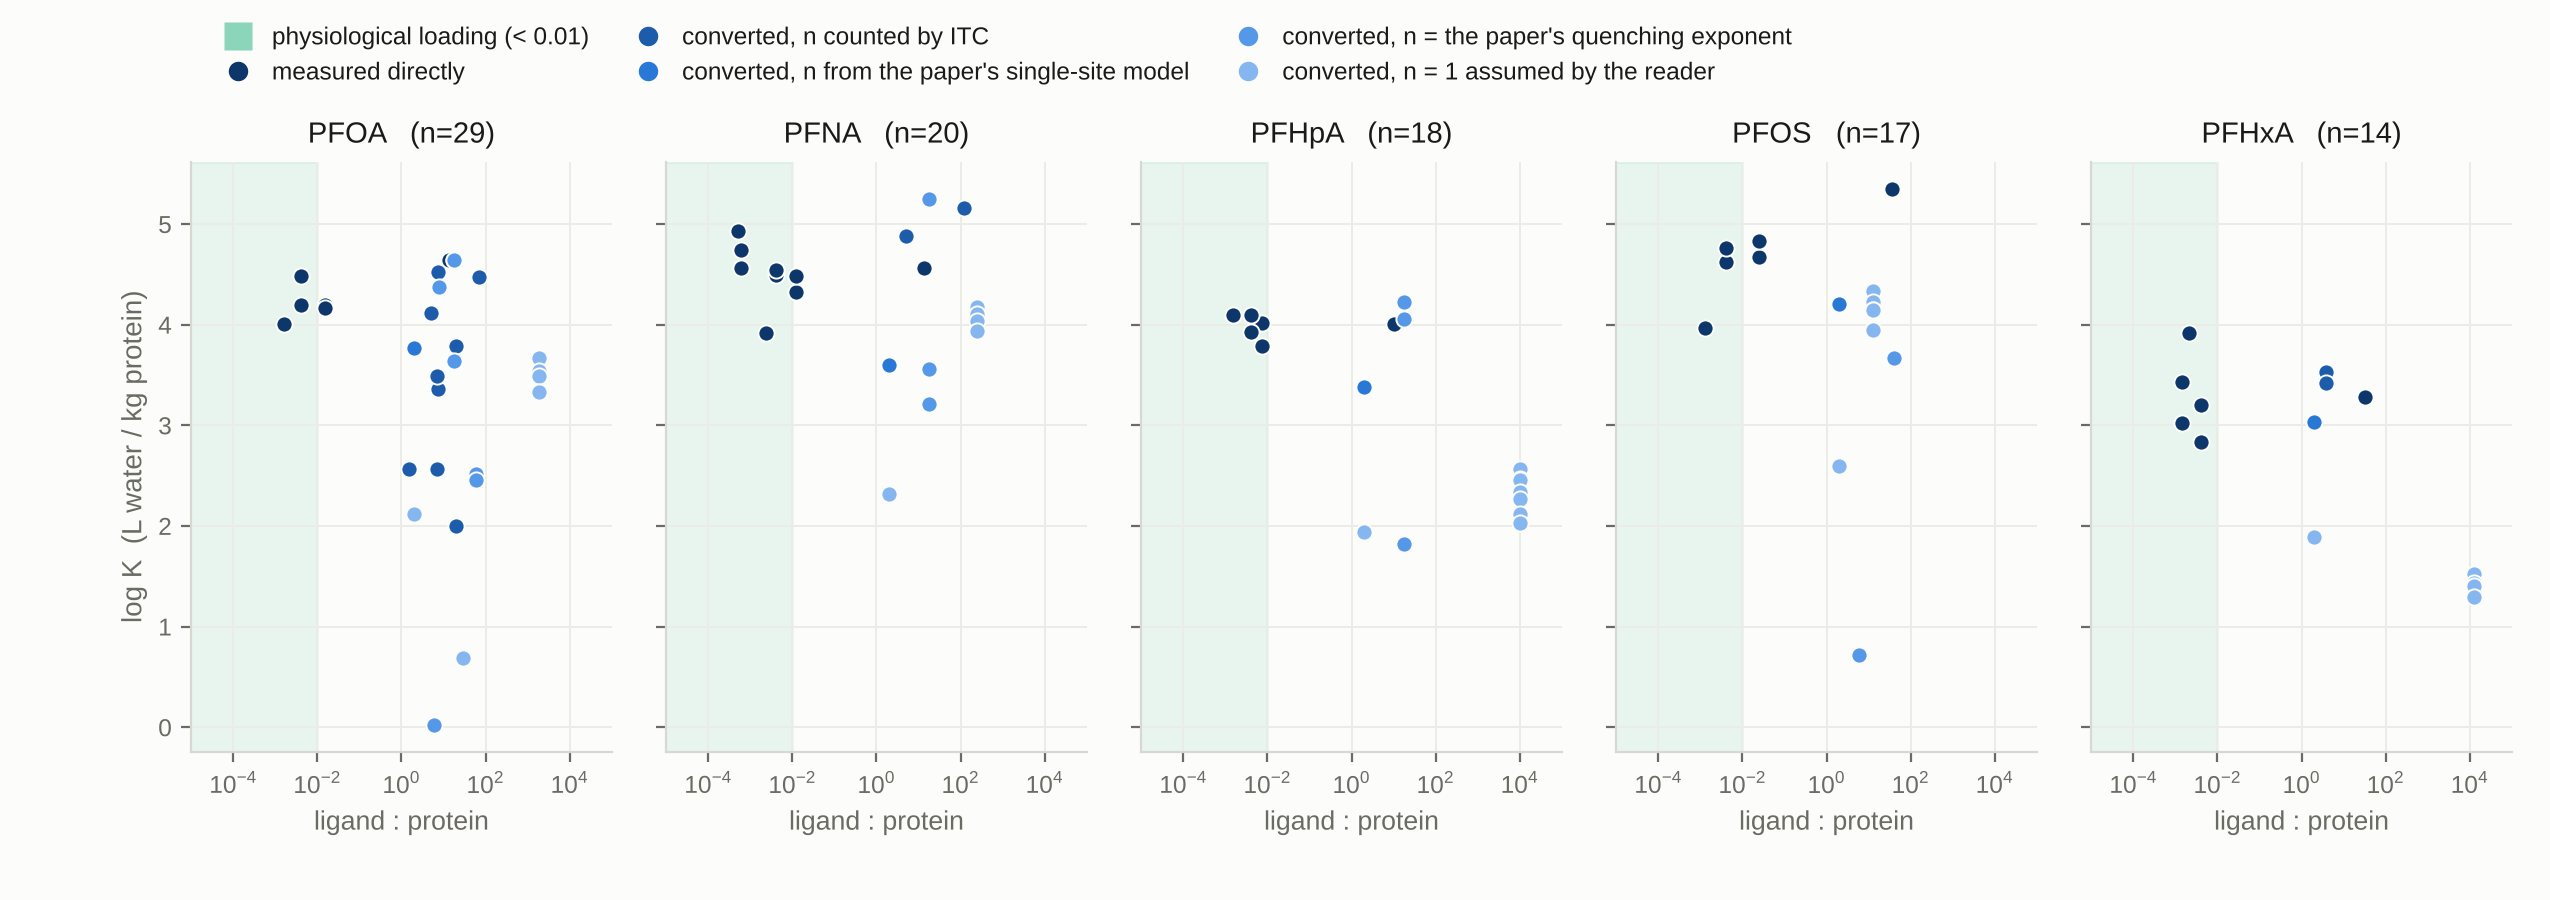
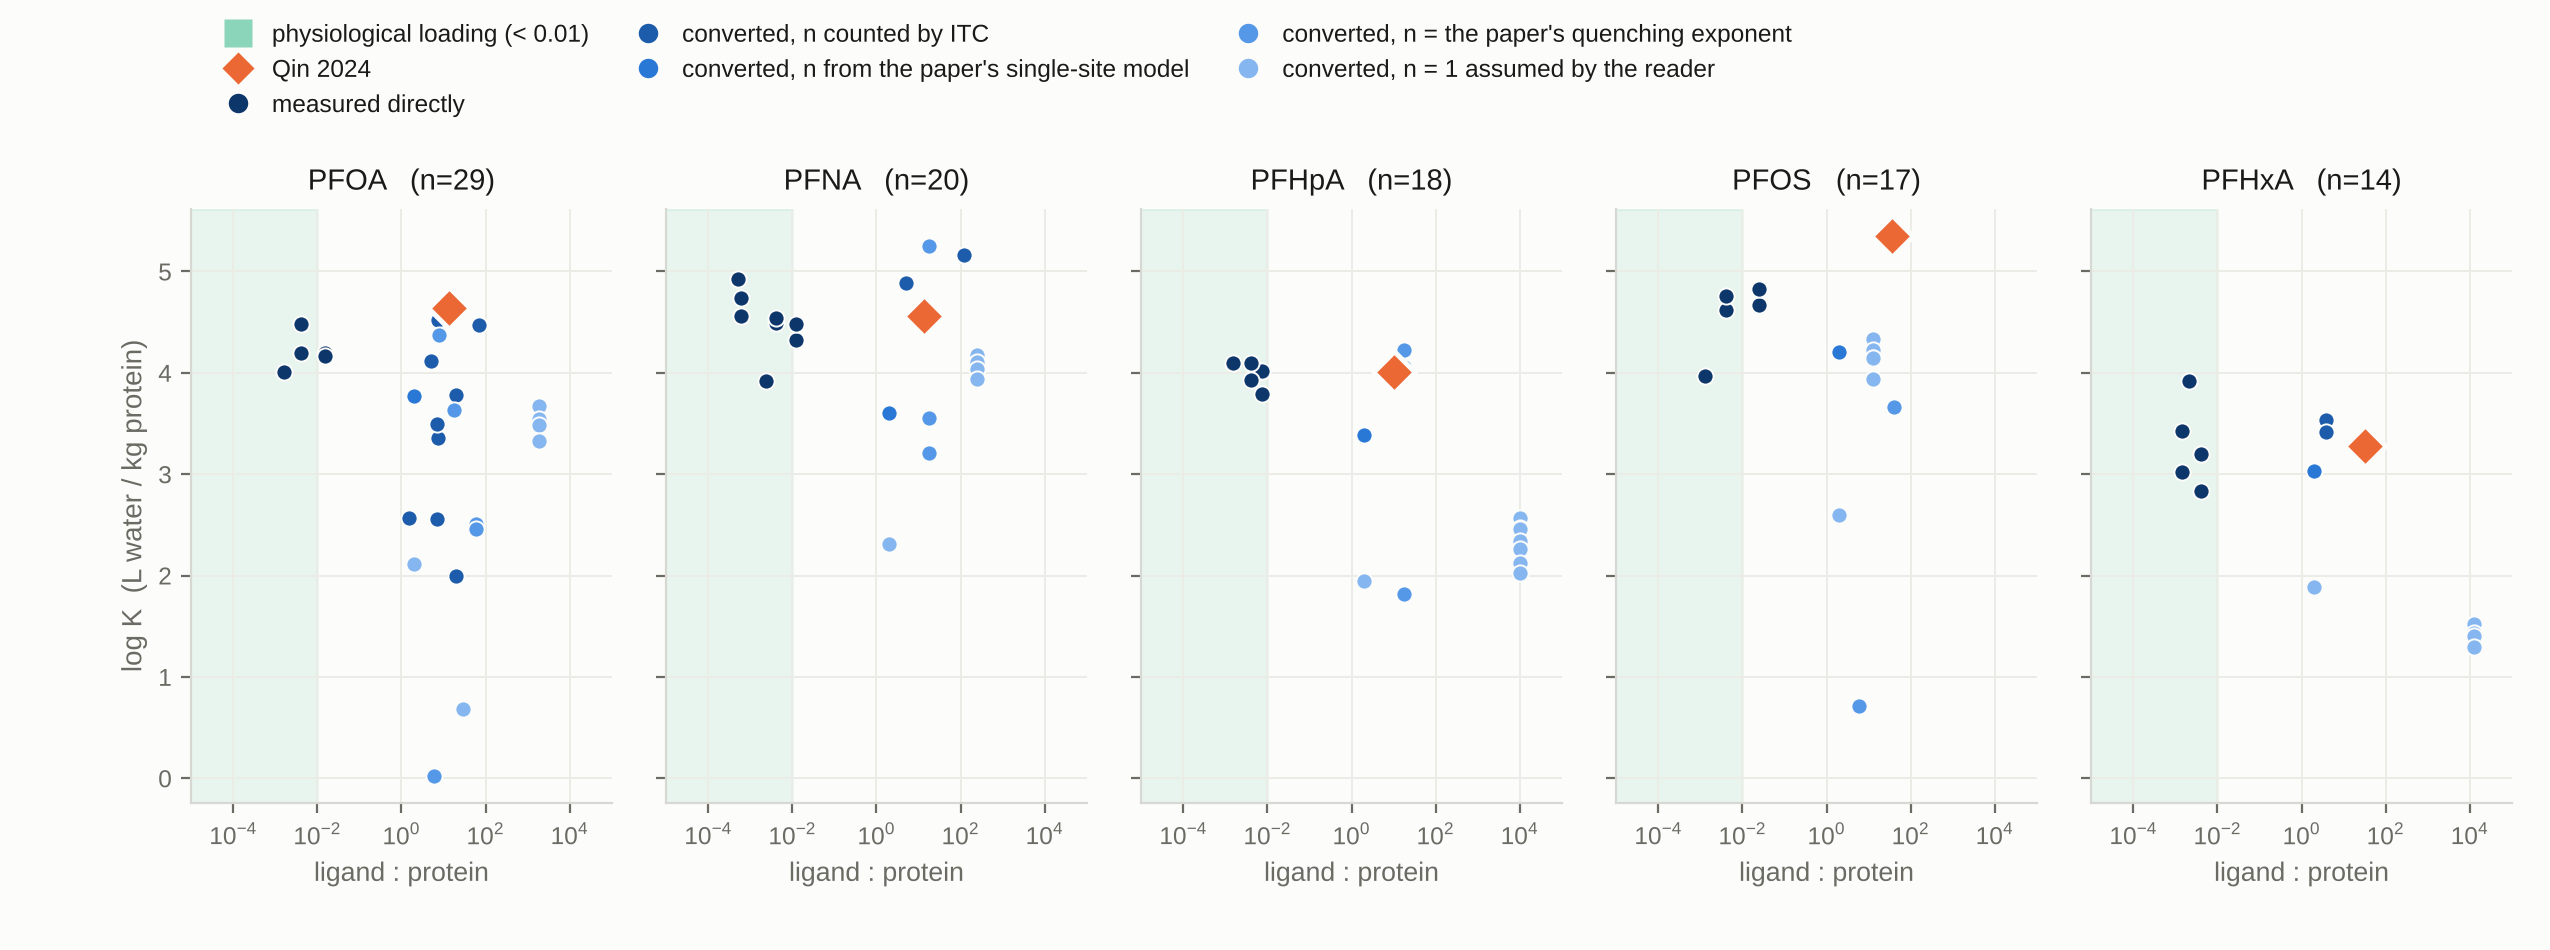
Highlight Qin 2024 in the loading figure
Qin takes the same orange diamond it carries in figure A, drawn on
top of the field, so the two figures are read with one key rather
than two.  It keeps its identity rather than its route shade: in
both figures the question is where Qin sits relative to everything
else, and figure A's legend already names its route.

The legend is three rows once Qin has its own entry, so the figure
grows 4.50 to 4.75 inches and the top margin moves 0.82 to 0.78 to
keep it off the panel titles.

What the highlight shows is worth the change.  Qin's five values sit
at ligand:protein 10 to 37 -- well outside the physiological band --
yet rank 1st, 3rd, 5th, 6th and 6th of their fields, and 1st of 17
for PFOS.  That cuts against the simple reading of this chart, and
the reason is that Qin separates specific from non-specific binding
and reports the SPECIFIC constant, so high loading does not degrade
it the way it degrades a lumped constant measured in the same
regime.  Loading tells you which binding a number describes, not
simply that a high-loading number must be small.

Claude-Session: https://claude.ai/code/session_01KWGaE5eHaWPnoHpTeKGRB5

diff --git a/tk_review/scripts/make_route_and_loading_figures.py b/tk_review/scripts/make_route_and_loading_figures.py
@@ -190,9 +190,11 @@ def fig_b(rows, compounds):
     from matplotlib.lines import Line2D
 
     n = len(compounds)
-    fig, axes = plt.subplots(1, n, figsize=(2.55 * n, 4.5), sharey=True)
+    fig, axes = plt.subplots(1, n, figsize=(2.55 * n, 4.75), sharey=True)
     fig.patch.set_facecolor(SURFACE)
-    fig.subplots_adjust(top=0.82, bottom=0.165, left=0.075, right=0.985,
+    # The legend is three rows once Qin has its own key; leave it room
+    # so it does not sit on the panel titles.
+    fig.subplots_adjust(top=0.78, bottom=0.155, left=0.075, right=0.985,
                         wspace=0.13)
 
     for ax, cm in zip(axes, compounds):
@@ -200,10 +202,23 @@ def fig_b(rows, compounds):
         g = [r for r in rows if r["pfas"] == cm and r["ratio"]
              and r["ratio"] > 0]
         ax.axvspan(1e-6, PHYSIO, color="#1baf7a", alpha=0.085, zorder=0)
+        # Qin 2024 carries the same orange diamond it has in figure A, so
+        # the two figures are read with one key. It is drawn on top and
+        # keeps its identity rather than its route shade -- in both
+        # figures the question is where Qin sits relative to the field,
+        # and its route is named in the caption of figure A anyway.
         for r in g:
+            if r["source"].startswith("Qin 2024"):
+                continue
             ax.scatter([r["ratio"]], [r["log_k"]], s=34,
                        color=RAMP[r["route_rank"]], edgecolor=SURFACE,
                        linewidth=0.7, zorder=3)
+        for r in g:
+            if not r["source"].startswith("Qin 2024"):
+                continue
+            ax.scatter([r["ratio"]], [r["log_k"]], s=112, marker="D",
+                       color=ORANGE, edgecolor=SURFACE, linewidth=1.8,
+                       zorder=6)
         ax.set_xscale("log")
         ax.set_title(f"{cm}   (n={len(g)})", fontsize=10.5, color=INK,
                      pad=7)
@@ -220,11 +235,13 @@ def fig_b(rows, compounds):
 
     h = [Line2D([], [], marker="s", color="none", markerfacecolor="#1baf7a",
                 alpha=0.5, markeredgecolor="none", markersize=10,
-                label="physiological loading (< 0.01)")]
+                label="physiological loading (< 0.01)"),
+         Line2D([], [], marker="D", color="none", markerfacecolor=ORANGE,
+                markeredgecolor=SURFACE, markersize=9, label="Qin 2024")]
     h += [Line2D([], [], marker="o", color="none", markerfacecolor=RAMP[i],
                  markeredgecolor=SURFACE, markersize=8, label=nm)
           for i, (nm, _) in enumerate(ROUTES)]
-    fig.legend(handles=h, loc="upper left", bbox_to_anchor=(0.075, 0.995),
+    fig.legend(handles=h, loc="upper left", bbox_to_anchor=(0.075, 0.998),
                ncol=3, frameon=False, fontsize=8.8, labelcolor=INK,
                handletextpad=0.4, columnspacing=1.4)
     p = os.path.join(FIGS, "albumin_logk_vs_loading.png")
